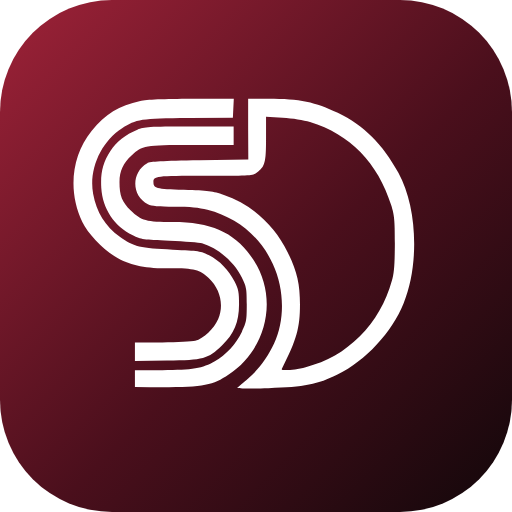
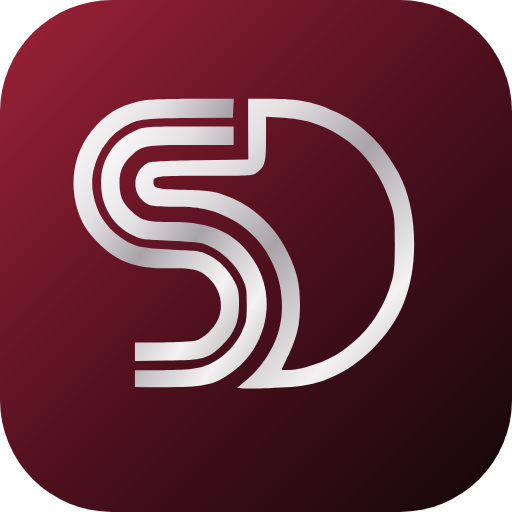
Icona: simbolo in bianco metallico
Claude-Session: https://claude.ai/code/session_01QB7FYFEaCEq1Nt6NiYjQzr

Changed region(s): [[0.1562, 0.3438, 0.5938, 0.7812], [0.25, 0.1875, 0.8125, 0.5312], [0.6562, 0.5938, 0.7812, 0.7188]]

diff --git a/index.html b/index.html
@@ -6,8 +6,8 @@
 <title>StructuRad × ESGAR — RM Retto</title>
 <meta name="description" content="Referto strutturato RM del retto secondo i criteri ESGAR: stadiazione primaria e ristadiazione.">
 <!-- icona StructuRad: incorporata, così resta anche nella pagina salvata sul PC -->
[4 lines of base64/hex data omitted]
 <link rel="apple-touch-icon" href="icone/apple-touch-icon.png">
 <link rel="manifest" href="manifest.webmanifest">
 <meta name="theme-color" content="#7B1E34">
@@ -5896,7 +5896,7 @@ var qrcode = function() {
 // e dimentica subito l'abbinamento: dopo l'accesso non resta nessun
 // canale aperto, e aprire il tool non contatta la rete.
 // ============================================================
-const VERSIONE = '2026-10-05 · icona';
+const VERSIONE = '2026-10-05 · icona metallo';
 const SESSIONE_KEY = 'structurad.esgar.sessione';
 const SESSIONE_ORE = 12;
 const QR_MINUTI = 5;

diff --git a/telefono.html b/telefono.html
@@ -6,8 +6,8 @@
 <meta name="theme-color" content="#12070A">
 <meta name="referrer" content="no-referrer">
 <!-- icona StructuRad: incorporata, così resta anche nella pagina salvata sul PC -->
[4 lines of base64/hex data omitted]
 <link rel="apple-touch-icon" href="icone/apple-touch-icon.png">
 <title>StructuRad × ESGAR — Chiave</title>
 <link rel="preconnect" href="https://fonts.googleapis.com">

diff --git a/README.md b/README.md
@@ -238,7 +238,7 @@ con «riduci movimento» attivo nel sistema né con `?nointro` nell'indirizzo.
 
 ## Icona e app sul desktop
 
-L'icona è il simbolo StructuRad (SD) su fondo rosso-nero, in `icone/`. Favicon SVG e PNG sono incorporati nella pagina, così l'icona resta anche in una copia salvata sul PC. `manifest.webmanifest` permette a Chrome ed Edge di installare il tool come app (⋮ → Trasmetti, salva e condividi → Installa pagina come app, o «Crea scorciatoia»), con icona sul desktop e finestra propria.
+L'icona è il simbolo StructuRad (SD) in bianco metallico su fondo rosso-nero, in `icone/`. Favicon SVG e PNG sono incorporati nella pagina, così l'icona resta anche in una copia salvata sul PC. `manifest.webmanifest` permette a Chrome ed Edge di installare il tool come app (⋮ → Trasmetti, salva e condividi → Installa pagina come app, o «Crea scorciatoia»), con icona sul desktop e finestra propria.
 
 ## Licenze incluse
 
